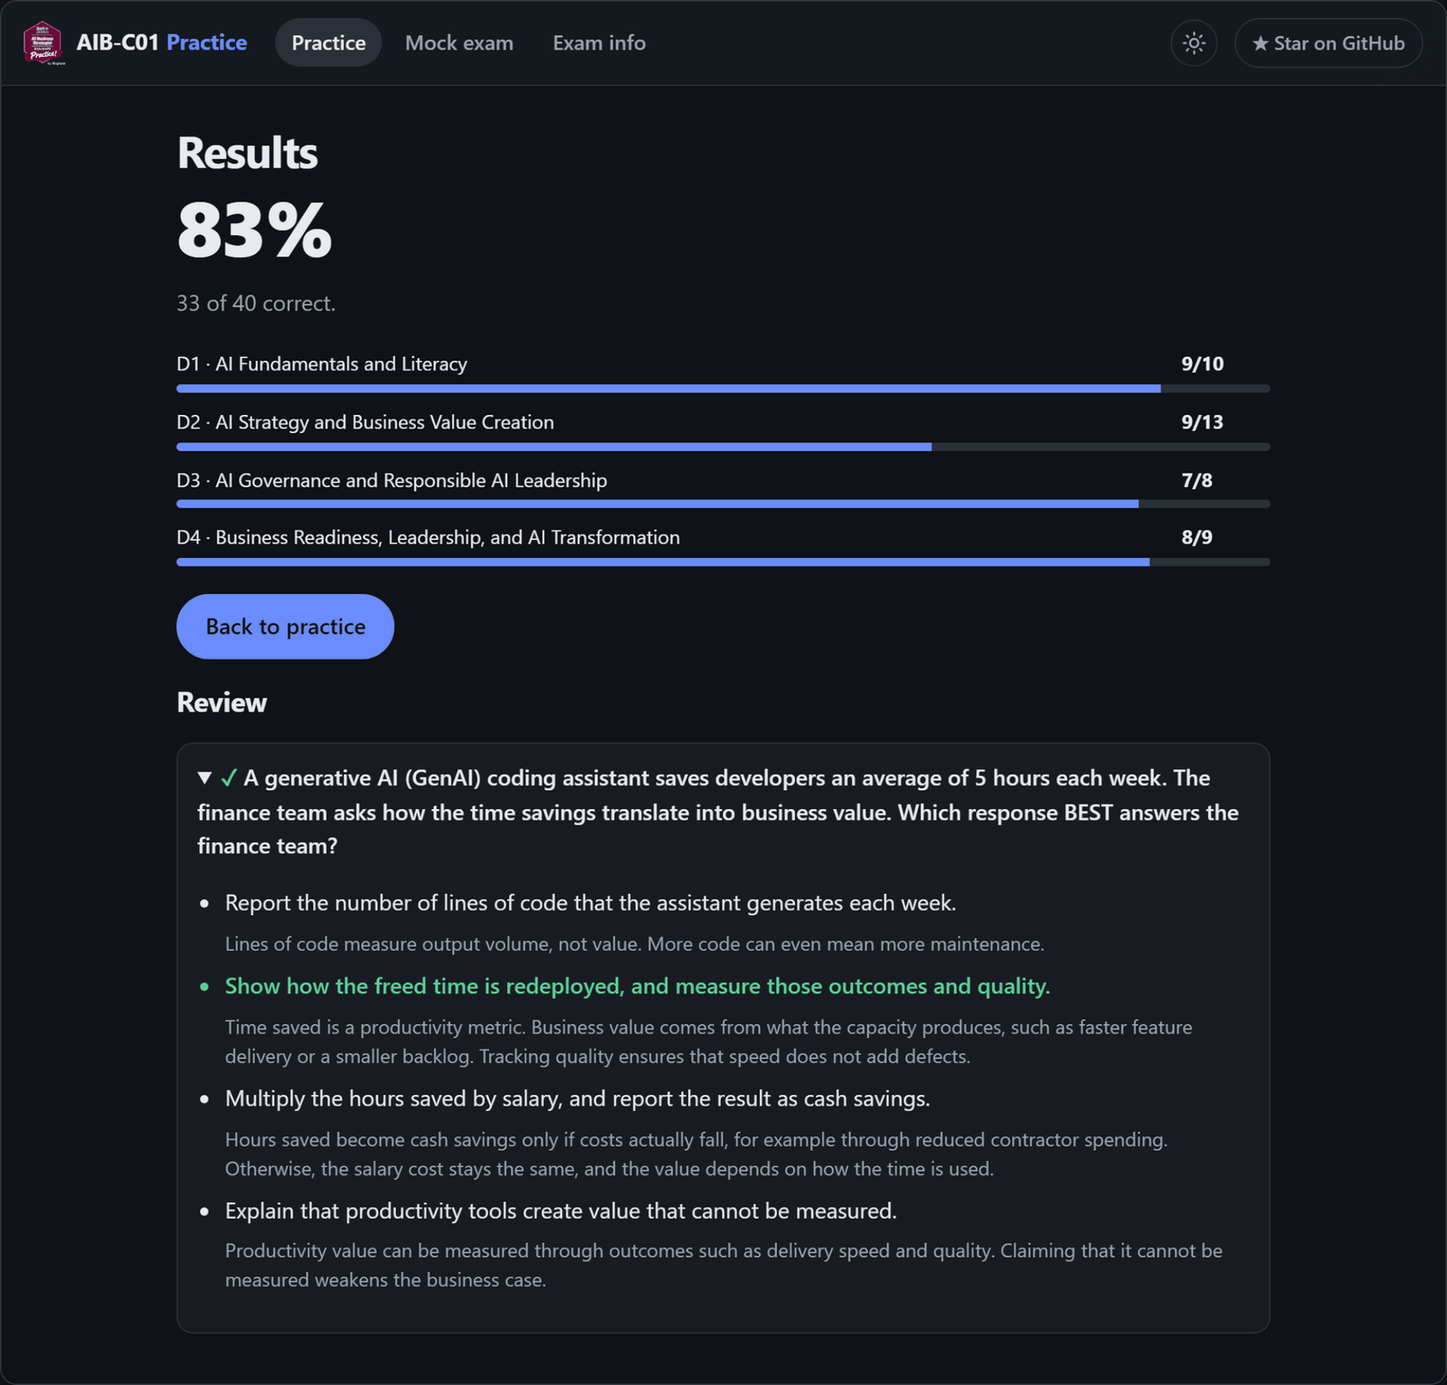
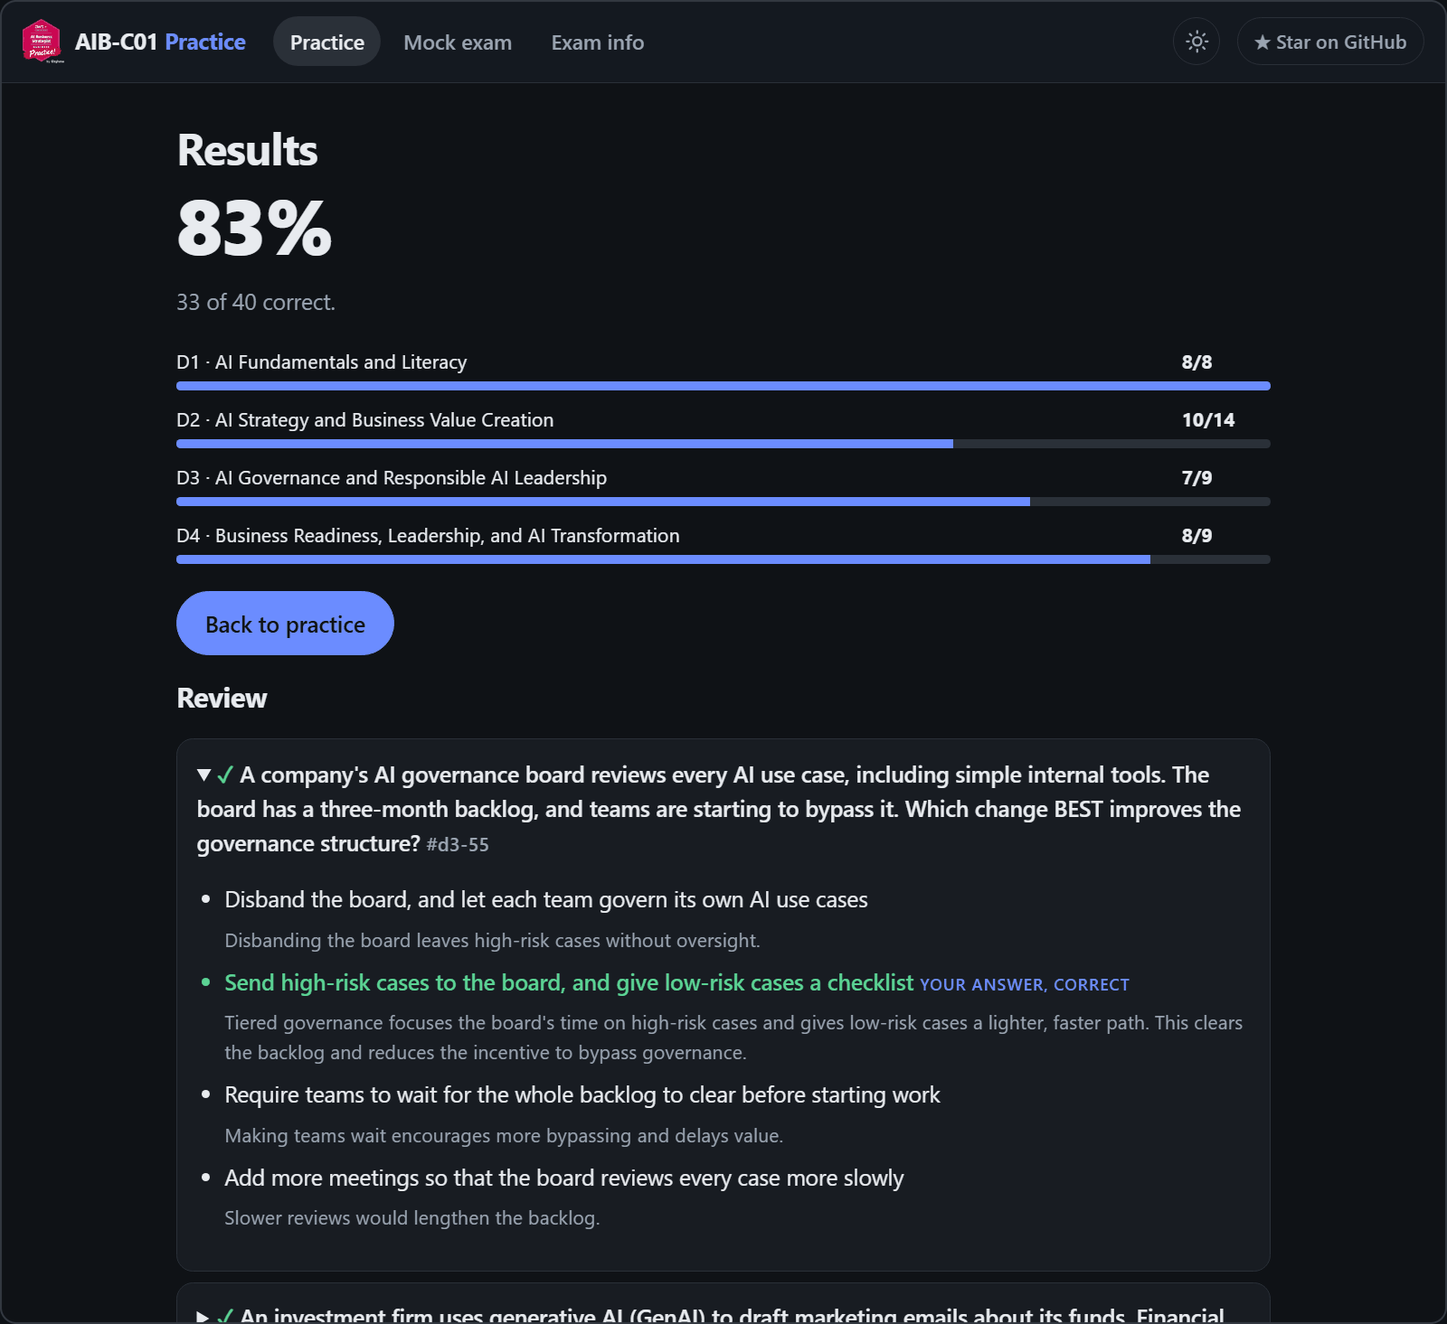
Share the app code with the SOA-C03 site and bring over its fixes
Move everything specific to AIB-C01 into exam.js, so app.js, check.js and
style.css are now the same files as on the SOA-C03 site. This brings over
the fixes made there:

- The results review labels your answer and the correct answer in text,
  shows each question's ID, and marks unanswered questions.
- The mock score note drops the unsupported "aim for 80%+" advice and says
  that the score doesn't predict the exam result.
- The info page adds a "Why it's free" section.
- check.js requires 4 options for one answer and 5 for multiple answers,
  and checks that the domain weights add up to 100.
- Narrow phones drop the logo during a session, so the mock header stays on
  one row.

The README links the SOA-C03 site and lists the labeled review. The
contributing guide and the question form match SOA-C03's. Retake the
results screenshots.

diff --git a/app.js b/app.js
@@ -1,21 +1,7 @@
 'use strict';
-const DOMAINS = {
-  1: { name: 'AI Fundamentals and Literacy', weight: 24 },
-  2: { name: 'AI Strategy and Business Value Creation', weight: 28 },
-  3: { name: 'AI Governance and Responsible AI Leadership', weight: 24 },
-  4: { name: 'Business Readiness, Leadership, and AI Transformation', weight: 24 },
-};
-// Beta format (the standard exam's question count is not yet published).
-const MOCK = { count: 85, minutes: 170 };
-const GUIDE = 'https://docs.aws.amazon.com/aws-certification/latest/ai-business-strategist-01/ai-business-strategist-01.html';
-const REPO = 'https://github.com/zghanw/aws-ai-business-strategist';
-// Verified against the official AIB-C01 exam guide and certification page, 2026-09-28.
-const FACTS = `
-    <li><b>Beta:</b> 85 questions, 170 minutes, USD 50. Delivery started 29 Sep 2026. You can sit the beta only once.</li>
-    <li><b>Standard:</b> 130 minutes, USD 100. The question count isn't published yet.</li>
-    <li>Question types: multiple choice (1 correct) and multiple response (2+ correct; you must pick all of them to get credit).</li>
-    <li>Scaled score 100 to 1,000; <b>700 to pass</b>. Scoring is compensatory, so you don't need to pass each domain. There's no penalty for guessing, so answer every question.</li>
-    <li>AWS services appear only at a strategic level: Amazon Bedrock (pricing tiers, Guardrails, Knowledge Bases), Amazon SageMaker AI, Amazon Quick, AWS CAF, the shared responsibility model, Pricing Calculator, Cost Explorer, Marketplace, Savings Plans, and the Well-Architected Responsible AI Lens.</li>`;
+// Exam-specific settings and text live in exam.js. This file, check.js and style.css are the same in every practice site.
+const EXAM = window.EXAM;
+const { domains: DOMAINS, mock: MOCK, guide: GUIDE, repo: REPO, facts: FACTS } = EXAM;
 const Q = window.QUESTIONS || [];
 const app = document.getElementById('app');
 const timerEl = document.getElementById('timer');
@@ -23,8 +9,8 @@ const endBtn = document.getElementById('end');
 const themeBtn = document.getElementById('theme');
 
 const store = {
-  get(k, d) { try { return JSON.parse(localStorage.getItem('aib:' + k)) ?? d; } catch { return d; } },
-  set(k, v) { try { localStorage.setItem('aib:' + k, JSON.stringify(v)); } catch {} },
+  get(k, d) { try { return JSON.parse(localStorage.getItem(EXAM.key + ':' + k)) ?? d; } catch { return d; } },
+  set(k, v) { try { localStorage.setItem(EXAM.key + ':' + k, JSON.stringify(v)); } catch {} },
 };
 const shuffle = a => { a = [...a]; for (let i = a.length - 1; i > 0; i--) { const j = Math.random() * (i + 1) | 0; [a[i], a[j]] = [a[j], a[i]]; } return a; };
 const esc = s => String(s).replace(/[&<>"]/g, c => ({ '&': '&amp;', '<': '&lt;', '>': '&gt;', '"': '&quot;' }[c]));
@@ -71,13 +57,13 @@ function home() {
   leave();
   const missed = missedIds().length, best = store.get('best', {});
   app.innerHTML = `
-    <h1>AIB-C01 practice questions</h1>
-    <p class="muted">AWS Certified AI Business Strategist. ${Q.length} original scenario questions with a rationale for every option. Free, no sign-up, and your progress stays in this browser.</p>
+    <h1>${EXAM.code} practice questions</h1>
+    <p class="muted">${EXAM.name}. ${Q.length} original scenario questions with a rationale for every option. Free, no sign-up, and your progress stays in this browser.</p>
     <div class="actions">
       <button class="btn primary" data-go="all">Start mixed practice</button>
       ${missed ? `<button class="btn" data-go="missed">Review missed (${missed})</button>` : ''}
     </div>
-    <p class="strip">Beta exam: 85 questions · 170 min · 700/1000 to pass · <a href="#/info">Exam info</a></p>
+    <p class="strip">${EXAM.strip} · <a href="#/info">Exam info</a></p>
     <h2 class="sub">Practice by domain</h2>
     <div class="domains">${Object.entries(DOMAINS).map(([d, m]) => `
       <button class="drow" data-go="domain" data-d="${d}">
@@ -93,7 +79,7 @@ function lobby() {
   leave();
   const counts = mockCounts(Math.min(MOCK.count, Q.length));
   app.innerHTML = `
-    <h1>Mock exam (beta format)</h1>
+    <h1>${MOCK.title}</h1>
     <ul class="rules">
       <li>${MOCK.count} questions in ${MOCK.minutes} minutes, mixed by the official domain weights.</li>
       <li>No answer feedback until you submit.</li>
@@ -103,7 +89,7 @@ function lobby() {
     </ul>
     <div class="rows">${Object.entries(DOMAINS).map(([d, m], i) => `<div class="row"><span>D${d} · ${m.name}</span><strong>${counts[i]}</strong></div>`).join('')}</div>
     <div class="actions"><button class="btn primary" data-go="mock">Start mock exam</button></div>
-    <p class="muted small">The format follows the beta described in the <a href="${GUIDE}" target="_blank" rel="noopener">official exam guide</a>.</p>`;
+    <p class="muted small">${MOCK.note}</p>`;
 }
 
 function info() {
@@ -115,10 +101,7 @@ function info() {
     <h2 class="sub">Domains and weights</h2>
     <div class="rows">${Object.entries(DOMAINS).map(([d, m]) => `<div class="row"><span>D${d} · ${m.name}</span><strong>${m.weight}%</strong></div>`).join('')}</div>
     <h2 class="sub">Official resources</h2>
-    <ul>
-      <li><a href="${GUIDE}" target="_blank" rel="noopener">AIB-C01 exam guide</a></li>
-      <li><a href="https://aws.amazon.com/certification/certified-ai-business-strategist/" target="_blank" rel="noopener">AWS Certified AI Business Strategist certification page</a></li>
-      <li><a href="https://skillbuilder.aws/learning-plan/B8J6KKJ45C/exam-prep-plan--aws-certified-ai-business-strategist-aibc01--english/KQ8WMK8CTE" target="_blank" rel="noopener">Exam prep plan on AWS Skill Builder</a>, which includes the free 20-question official practice set (sign-in required)</li>
+    <ul>${EXAM.resources}
     </ul>
     <h2 class="sub">How this site works</h2>
     <ul>
@@ -130,7 +113,9 @@ function info() {
     </ul>
     <h2 class="sub">How the questions are written</h2>
     <p>Every question is original and written against the public exam guide. None come from the real exam, paid courses, or dumps. The questions were drafted with AI help, then checked one by one against the exam guide and AWS documentation. The whole question bank is open source on <a href="${REPO}" target="_blank" rel="noopener">GitHub</a>.</p>
-    <p>Think a question is wrong? <a href="${REPO}/issues/new/choose" target="_blank" rel="noopener">Report it</a> with the question ID shown above each question.</p>`;
+    <p>Think a question is wrong? <a href="${REPO}/issues/new/choose" target="_blank" rel="noopener">Report it</a> with the question ID shown above each question.</p>
+    <h2 class="sub">Why it's free</h2>
+    <p>Practice should be free for anyone who learns with their heart and is willing to put in the time. No sign-up, no ads, no paywall.</p>`;
 }
 
 // Largest-remainder split so the mock mirrors domain weights exactly.
@@ -248,10 +233,15 @@ function results() {
     const g = graded.filter(x => x.q.d == d);
     return g.length ? `<div class="row"><span>D${d} · ${m.name}</span><strong>${g.filter(ok).length}/${g.length}</strong><div class="meter"><i style="width:${pct(g.filter(ok).length, g.length)}%"></i></div></div>` : '';
   }).join('');
+  // Text labels as well as color, so the review survives copying, printing, and screen readers.
+  const mark = (x, oi) => {
+    const right = x.q.a.includes(oi), mine = x.pick.includes(oi);
+    return right || mine ? ` <span class="tag">${right && mine ? 'Your answer, correct' : right ? 'Correct answer' : 'Your answer'}</span>` : '';
+  };
   const review = graded.map(x => `
     <details class="${ok(x) ? 'ok' : 'bad'}" ${ok(x) ? '' : 'open'}>
-      <summary>${ok(x) ? '<span class="yes">✓</span>' : '<span class="no">✗</span>'} ${esc(x.q.q.replace(/\n\n/g, ' '))}</summary>
-      <ul>${x.order.map(oi => `<li class="${x.q.a.includes(oi) ? 'right' : x.pick.includes(oi) ? 'wrong' : ''}">${esc(x.q.o[oi])}<span class="why">${esc(x.q.r[oi])}</span></li>`).join('')}</ul>
+      <summary>${ok(x) ? '<span class="yes">✓</span>' : '<span class="no">✗</span>'} ${esc(x.q.q.replace(/\n\n/g, ' '))} <span class="muted small">#${x.q.id}</span>${x.pick.length ? '' : ' <span class="tag">Not answered</span>'}</summary>
+      <ul>${x.order.map(oi => `<li class="${x.q.a.includes(oi) ? 'right' : x.pick.includes(oi) ? 'wrong' : ''}">${esc(x.q.o[oi])}${mark(x, oi)}<span class="why">${esc(x.q.r[oi])}</span></li>`).join('')}</ul>
     </details>`).join('');
   const actions = missed
     ? `<button class="btn primary" data-go="missed">Review missed (${missed})</button><button class="btn" data-go="home">Back to practice</button>`
@@ -260,7 +250,7 @@ function results() {
     <h1>Results</h1>
     ${graded.length ? `
       <div class="score">${score}%</div>
-      <p class="muted">${right} of ${graded.length} correct.${S.mode === 'mock' ? ' The real exam reports a scaled score (100 to 1,000, pass 700) that is not a simple percentage, so treat this raw % as a rough guide and aim for 80%+.' : ''}</p>
+      <p class="muted">${right} of ${graded.length} correct.${S.mode === 'mock' ? ` The real exam reports a scaled score (100 to 1,000, pass ${EXAM.pass}) that is not a simple percentage. These are original practice questions, not exam questions, so use this score to find weak areas, not to predict your result.` : ''}</p>
       <div class="rows">${rows}</div>
       <div class="actions">${actions}</div>
       <h2>Review</h2>${review}` : `<p class="muted">No questions answered.</p><div class="actions">${actions}</div>`}`;

diff --git a/exam.js b/exam.js
@@ -1,0 +1,37 @@
+'use strict';
+// Everything specific to this exam. app.js, check.js and style.css are the same file in every practice site.
+{
+  const guide = 'https://docs.aws.amazon.com/aws-certification/latest/ai-business-strategist-01/ai-business-strategist-01.html';
+  const link = (href, text) => `<a href="${href}" target="_blank" rel="noopener">${text}</a>`;
+  window.EXAM = {
+    code: 'AIB-C01',
+    name: 'AWS Certified AI Business Strategist',
+    key: 'aib', // localStorage prefix; index.html's theme script uses it too
+    repo: 'https://github.com/zghanw/aws-ai-business-strategist',
+    guide,
+    pass: 700,
+    strip: 'Beta exam: 85 questions · 170 min · 700/1000 to pass',
+    domains: {
+      1: { name: 'AI Fundamentals and Literacy', weight: 24 },
+      2: { name: 'AI Strategy and Business Value Creation', weight: 28 },
+      3: { name: 'AI Governance and Responsible AI Leadership', weight: 24 },
+      4: { name: 'Business Readiness, Leadership, and AI Transformation', weight: 24 },
+    },
+    // Beta format (the standard exam's question count is not yet published).
+    mock: {
+      count: 85, minutes: 170, title: 'Mock exam (beta format)',
+      note: `The format follows the beta described in the ${link(guide, 'official exam guide')}.`,
+    },
+    // Verified against the official AIB-C01 exam guide and certification page, 2026-09-28.
+    facts: `
+      <li><b>Beta:</b> 85 questions, 170 minutes, USD 50. Delivery started 29 Sep 2026. You can sit the beta only once.</li>
+      <li><b>Standard:</b> 130 minutes, USD 100. The question count isn't published yet.</li>
+      <li>Question types: multiple choice (1 correct) and multiple response (2+ correct; you must pick all of them to get credit).</li>
+      <li>Scaled score 100 to 1,000; <b>700 to pass</b>. Scoring is compensatory, so you don't need to pass each domain. There's no penalty for guessing, so answer every question.</li>
+      <li>AWS services appear only at a strategic level: Amazon Bedrock (pricing tiers, Guardrails, Knowledge Bases), Amazon SageMaker AI, Amazon Quick, AWS CAF, the shared responsibility model, Pricing Calculator, Cost Explorer, Marketplace, Savings Plans, and the Well-Architected Responsible AI Lens.</li>`,
+    resources: `
+      <li>${link(guide, 'AIB-C01 exam guide')}</li>
+      <li>${link('https://aws.amazon.com/certification/certified-ai-business-strategist/', 'AWS Certified AI Business Strategist certification page')}</li>
+      <li>${link('https://skillbuilder.aws/learning-plan/B8J6KKJ45C/exam-prep-plan--aws-certified-ai-business-strategist-aibc01--english/KQ8WMK8CTE', 'Exam prep plan on AWS Skill Builder')}, which includes the free 20-question official practice set (sign-in required)</li>`,
+  };
+}

diff --git a/check.js b/check.js
@@ -1,16 +1,19 @@
 // Data integrity check for the question bank. Run: node check.js
 global.window = {};
 const fs = require('fs');
+require('./exam.js'); // window.EXAM: this site's domains and weights
 fs.readdirSync(__dirname + '/data').filter(f => f.endsWith('.js')).sort().forEach(f => require('./data/' + f));
 const Q = window.QUESTIONS, ids = new Set(), errs = [];
+const DOMAINS = Object.keys(window.EXAM.domains).map(Number);
 const WORD = { 2: 'TWO', 3: 'THREE' };
 const mean = a => a.reduce((s, x) => s + x, 0) / a.length;
 let single = 0, longest = 0, ratios = [];
 for (const q of Q) {
   const e = m => errs.push(`${q.id}: ${m}`);
   if (ids.has(q.id)) e('duplicate id'); ids.add(q.id);
-  if (![1, 2, 3, 4].includes(q.d) || !q.id.startsWith('d' + q.d)) e('bad domain');
-  if (!q.q || q.o.length < 4 || q.o.length > 6) e('missing text or bad option count');
+  if (!DOMAINS.includes(q.d) || !q.id.startsWith('d' + q.d)) e('bad domain');
+  // Exam format: multiple choice is 1 of 4, multiple response is 2+ of 5 (the quiz keys go up to 5).
+  if (!q.q || q.o.length !== (q.a.length > 1 ? 5 : 4)) e('missing text or bad option count (4 for one answer, 5 for multiple)');
   if (!q.a.length || new Set(q.a).size !== q.a.length || q.a.some(i => !(i in q.o))) e('bad answer index');
   if (new Set(q.o).size !== q.o.length) e('duplicate options');
   if (!Array.isArray(q.r) || q.r.length !== q.o.length || q.r.some(s => !s || !s.trim())) { e('needs one rationale per option in r'); continue; }
@@ -27,7 +30,10 @@ for (const q of Q) {
   if (right / wrong > 1.4 && right - wrong > 12) e(`correct option is ${(right / wrong).toFixed(2)}x the length of the distractors (max 1.4x)`);
   if (q.a.length === 1) { single++; if (L.filter(x => x === Math.max(...L)).length === 1 && L[q.a[0]] === Math.max(...L)) longest++; }
 }
-const by = [1, 2, 3, 4].map(d => Q.filter(q => q.d === d).length);
+const by = DOMAINS.map(d => Q.filter(q => q.d === d).length);
+// The mock exam splits questions by these weights, so they must add up to 100.
+const weights = Object.values(window.EXAM.domains).reduce((s, m) => s + m.weight, 0);
+if (weights !== 100) errs.push(`domain weights in exam.js add up to ${weights}, not 100`);
 const share = longest / single, ratio = mean(ratios);
 console.log(`${Q.length} questions · by domain ${by.join(' / ')} · multi-select ${Q.filter(q => q.a.length > 1).length}`);
 console.log(`correct option is the longest in ${Math.round(100 * share)}% of single-answer questions · average length ratio ${ratio.toFixed(2)}x`);

diff --git a/style.css b/style.css
@@ -153,6 +153,8 @@ kbd { font: .75rem ui-monospace, monospace; border: 1px solid var(--line); borde
   body.session .nav { position: sticky; bottom: 0; z-index: 1; margin: 16px -16px 0; padding: 10px 16px calc(10px + env(safe-area-inset-bottom)); background: var(--glass); -webkit-backdrop-filter: saturate(180%) blur(20px); backdrop-filter: saturate(180%) blur(20px); border-top: 1px solid var(--line); }
   body.session .nav .btn { flex: 1; }
 }
+/* Narrow phones also drop the logo during a session, so brand, timer, submit and theme still fit on one row. */
+@media (max-width: 380px) { body.session .brand img { display: none; } }
 @media (prefers-reduced-transparency: reduce), (prefers-contrast: more) {
   header, body.session .nav { -webkit-backdrop-filter: none; backdrop-filter: none; }
 }

diff --git a/index.html b/index.html
@@ -30,6 +30,7 @@
 </header>
 <main id="app"></main>
 <footer>Unofficial study aid. Not affiliated with or endorsed by AWS. Questions are original, written against the public exam guide.<br><a href="#/info">Exam info</a> · <a href="https://github.com/zghanw/aws-ai-business-strategist" target="_blank" rel="noopener">GitHub</a></footer>
+<script src="exam.js"></script>
 <script src="data/d1.js"></script>
 <script src="data/d2.js"></script>
 <script src="data/d3.js"></script>

diff --git a/CONTRIBUTING.md b/CONTRIBUTING.md
@@ -2,7 +2,7 @@
 
 Thanks for helping other people pass AIB-C01. The most useful contributions are:
 
-1. **Fixing a question.** Wrong answer, unclear wording, or a fact that has changed.
+1. **Fixing a question.** Wrong answer, unclear wording, or a fact that has changed. AWS ships changes often, so this matters a lot.
 2. **Adding a question** for an exam skill that has few questions.
 3. **Reporting a bug** in the quiz itself.
 
@@ -14,6 +14,8 @@ You don't need to write code for the first two. Opening an issue is enough.
 - **Don't copy from paid practice tests, dumps, or courses.** Original wording only.
 - **Tie it to the exam guide.** Each question should test a skill listed in the [official AIB-C01 exam guide](https://docs.aws.amazon.com/aws-certification/latest/ai-business-strategist-01/ai-business-strategist-01.html). Link your source for any fact.
 - **Test judgment, not trivia.** The real exam is scenario-based and strategic. Ask what a business leader should do, not how to configure a service.
+- **Test the standard answer first.** Make a recently launched feature the right answer only if the exam guide names it. Otherwise, test the long-standing approach and mention the newer option in the rationale. Don't add a condition whose only purpose is to rule out the standard answer.
+- **Keep it current.** Don't make a deprecated feature or a service that is closed to new customers the right answer.
 - **Explain every option.** Each option gets its own rationale: why it's right, or which requirement it fails.
 
 ## Writing style
@@ -26,6 +28,7 @@ The questions follow the style of AWS's official practice questions, so practice
 
 **The options.** This is where most practice tests go wrong.
 
+- Multiple choice has exactly 4 options. Multiple response has 5 options with 2 correct, like the real exam.
 - Write all options in the same form: all imperatives, all noun phrases, or all "A model that..."
 - Keep them about the same length. The right answer must not be the longest, the most detailed, or the most carefully hedged. `node check.js` fails the build if right answers stand out by length.
 - Every wrong option should be a real practice that fails one requirement in the scenario, for example one that is reactive instead of preventive, too broad in scope, done in the wrong order, or overly restrictive. No joke options.
@@ -34,7 +37,7 @@ The questions follow the style of AWS's official practice questions, so practice
 
 ## Question format
 
-Questions live in `data/d1.js` to `data/d4.js`, one file per exam domain:
+Questions live in `data/d1.js` to `data/d4.js`, one file per exam domain. Exam details such as the domain names and weights live in `exam.js`, and `app.js`, `check.js` and `style.css` are shared with the other practice sites.
 
 ```js
 { id: "d2-86", d: 2,
@@ -59,6 +62,6 @@ Run the data check. It needs Node.js and nothing else:
 node check.js
 ```
 
-It catches duplicate IDs, bad answer indexes, missing rationales, a missing `(Select TWO.)` tag, dashes, and answer-length bias. CI runs the same check on every pull request.
+It catches duplicate IDs, bad answer indexes, the wrong number of options, missing rationales, a missing `(Select TWO.)` tag, dashes, and answer-length bias. CI runs the same check on every pull request.
 
 To try the site locally, serve the folder with any static server, for example `python -m http.server`, and open http://localhost:8000.

diff --git a/README.md b/README.md
@@ -43,6 +43,7 @@ The AIB-C01 beta opened on 29 September 2026, and AWS's official practice exam i
 - Practice one domain at a time. After each answer, every option shows why it's right or wrong.
 - Take a mock exam in the beta format: 85 questions in 170 minutes, split by the official domain weights.
 - Get both multiple-choice and multiple-response questions, like the real exam.
+- Review each result with your answer and the correct answer labeled.
 - Come back to the questions you missed. They're saved in your browser.
 - Use it on a phone or a laptop, in light or dark mode.
 
@@ -87,9 +88,13 @@ Then open http://localhost:8000. Run `node check.js` to validate the question ba
 
 ## Contributing
 
-Questions live in `data/d1.js` to `data/d4.js`, one file per domain. [CONTRIBUTING.md](CONTRIBUTING.md) covers the format and the ground rules. To suggest a question or report a wrong one, use the [issue forms](https://github.com/zghanw/aws-ai-business-strategist/issues/new/choose).
+Questions live in `data/d1.js` to `data/d4.js`, one file per domain, and exam details such as the domain weights live in `exam.js`. [CONTRIBUTING.md](CONTRIBUTING.md) covers the format and the ground rules. To suggest a question or report a wrong one, use the [issue forms](https://github.com/zghanw/aws-ai-business-strategist/issues/new/choose).
 
 If this helped you prepare, a star helps other candidates find it.
+
+## More free AWS practice
+
+- [SOA-C03 Practice](https://zghanw.github.io/aws-cloudops-engineer-associate/) for the AWS Certified CloudOps Engineer - Associate exam: 325 questions and a timed mock exam, built the same way.
 
 ## Disclaimer
 
